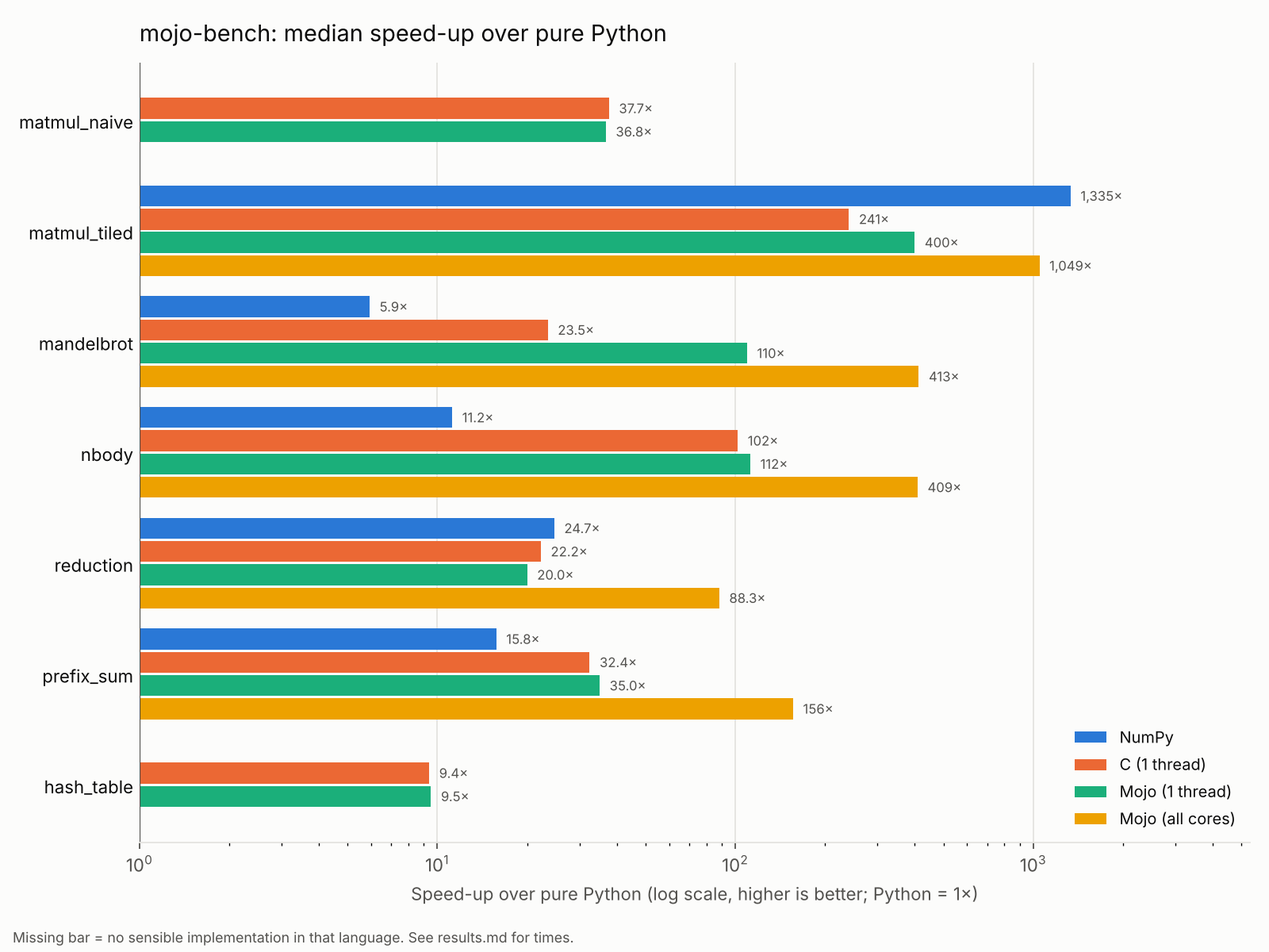
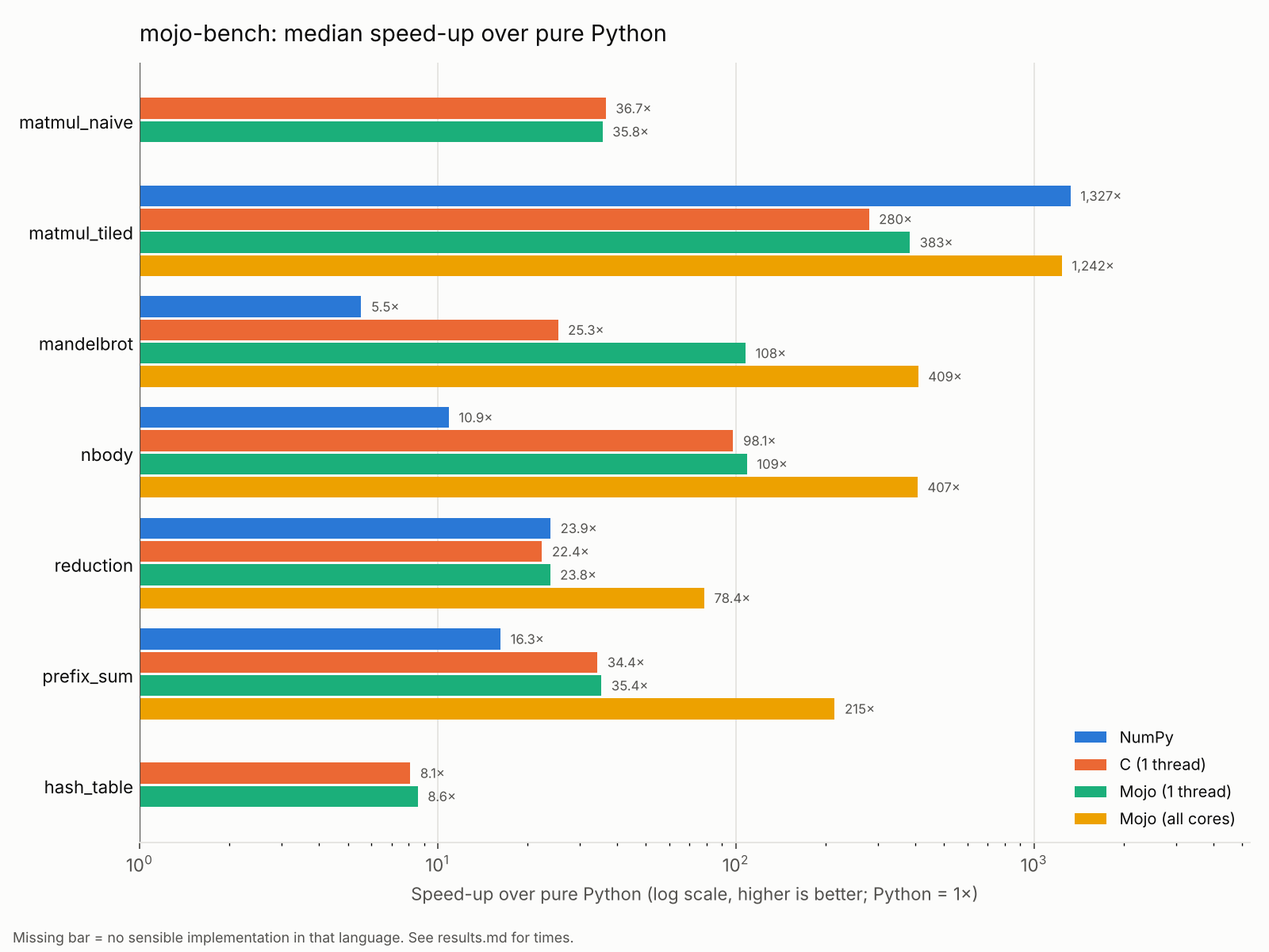
Compile C in GCC's default dialect so FMA contraction is allowed
-std=c11 silently disabled floating-point contraction, leaving the C
binary with no FMA instructions while Mojo uses them. The brief asks for
plain gcc -O3 -march=native, so drop -std=c11. Re-run the benchmark and
update the README: the tiled C matmul gap shrinks from 1.66x to 1.37x,
and the analysis now says which compiler details matter and by how much.
Mandelbrot gains a 1e-6 relative tolerance because FMA rounding moves a
few boundary pixels at some sizes.

diff --git a/bench/scaling.py b/bench/scaling.py
@@ -1,0 +1,130 @@
+#!/usr/bin/env python3
+"""Thread-scaling study: C (OpenMP) vs Mojo (parallelize), 1..all cores.
+
+Each parallel kernel is run with 1, 2, ... N threads through its parallel
+code path. Speed-up is relative to the same implementation at 1 thread, so it
+measures how well the code scales, not which language is faster (absolute
+times are in the CSV and the table).
+
+Sizes are larger than in the main benchmark because pure Python is not
+involved: the two streaming kernels use arrays far bigger than the L3 cache so
+that they hit DRAM bandwidth.
+
+Writes <out>/scaling.csv, <out>/scaling.md and <out>/scaling.png.
+Usage: python3 bench/scaling.py [--out results] [--max-threads N]
+"""
+
+import argparse
+import csv
+import statistics
+from pathlib import Path
+
+import matplotlib
+
+matplotlib.use("Agg")
+import matplotlib.pyplot as plt  # noqa: E402
+
+from run import NCPU, ROOT, run_impl  # noqa: E402
+
+SIZES = {
+    "matmul_tiled": (1024, "1,024 × 1,024 float64"),
+    "mandelbrot": (2048, "2,048 × 2,048 pixels"),
+    "nbody": (4096, "4,096 bodies, 5 steps"),
+    "reduction": (100_000_000, "100 M int64 (800 MB)"),
+    "prefix_sum": (100_000_000, "100 M int64 (800 MB in + 800 MB out)"),
+}
+IMPLS = [("c_omp", "C OpenMP", "#6250d6", "o"), ("mojo_par", "Mojo parallelize", "#eda100", "s")]
+SURFACE, INK, INK2, GRID = "#fcfcfb", "#0b0b0b", "#52514e", "#e4e3df"
+BUDGET_S, MIN_REPEATS, MAX_REPEATS = 1.0, 5, 50
+
+
+def measure(impl, kernel, n, threads):
+    pilot = run_impl(impl, kernel, n, 0, 1, threads=threads)
+    repeats = min(max(MIN_REPEATS, int(BUDGET_S / max(pilot[1][0], 1e-6))), MAX_REPEATS)
+    checksum, times = run_impl(impl, kernel, n, 1, repeats, threads=threads)
+    return checksum, statistics.median(times), min(times), repeats
+
+
+def plot(rows, out, max_threads):
+    kernels = list(SIZES)
+    fig, axes = plt.subplots(1, len(kernels), figsize=(14, 3.8), dpi=160, sharey=True)
+    fig.patch.set_facecolor(SURFACE)
+    threads = list(range(1, max_threads + 1))
+    for ax, kernel in zip(axes, kernels):
+        ax.set_facecolor(SURFACE)
+        ax.plot(threads, threads, color=INK2, lw=1, ls="--", label="ideal")
+        for impl, name, colour, marker in IMPLS:
+            pts = sorted((r["threads"], r["speedup"]) for r in rows if r["kernel"] == kernel and r["impl"] == impl)
+            ax.plot([p[0] for p in pts], [p[1] for p in pts], color=colour, lw=2, marker=marker, ms=8,
+                    markeredgecolor=SURFACE, markeredgewidth=1.5, label=name)
+            ax.annotate(f"{pts[-1][1]:.1f}×", (pts[-1][0], pts[-1][1]), xytext=(6, -3 if impl == "c_omp" else 6),
+                        textcoords="offset points", fontsize=8, color=INK)
+        ax.set_title(kernel, fontsize=10, color=INK, loc="left")
+        ax.set_xticks(threads)
+        ax.set_xlim(0.7, max_threads + 0.9)
+        ax.set_ylim(0, max_threads + 0.5)
+        ax.grid(color=GRID, lw=0.8)
+        ax.set_axisbelow(True)
+        ax.tick_params(colors=INK2, labelsize=8)
+        for side in ("top", "right"):
+            ax.spines[side].set_visible(False)
+        for side in ("left", "bottom"):
+            ax.spines[side].set_color(GRID)
+        ax.set_xlabel("threads", fontsize=9, color=INK2)
+    axes[0].set_ylabel("speed-up over 1 thread", fontsize=9, color=INK2)
+    axes[0].legend(loc="upper left", frameon=False, fontsize=8, labelcolor=INK)
+    fig.suptitle("Thread scaling: speed-up over the same implementation on 1 thread", x=0.01, ha="left",
+                 fontsize=12, color=INK)
+    fig.tight_layout()
+    fig.savefig(out / "scaling.png", facecolor=SURFACE)
+
+
+def main():
+    ap = argparse.ArgumentParser()
+    ap.add_argument("--out", default=str(ROOT / "results"))
+    ap.add_argument("--max-threads", type=int, default=NCPU)
+    args = ap.parse_args()
+    out = Path(args.out)
+    out.mkdir(parents=True, exist_ok=True)
+
+    rows = []
+    for kernel, (n, _) in SIZES.items():
+        reference = None
+        for impl, *_ in IMPLS:
+            base = None
+            for t in range(1, args.max_threads + 1):
+                checksum, med, best, reps = measure(impl, kernel, n, t)
+                reference = reference or checksum
+                if abs(float(checksum) - float(reference)) > 1e-9 * abs(float(reference)):
+                    raise SystemExit(f"checksum mismatch {kernel}/{impl}/{t}: {checksum} vs {reference}")
+                base = base or med
+                rows.append({"kernel": kernel, "impl": impl, "n": n, "threads": t, "median_s": med,
+                             "min_s": best, "repeats": reps, "speedup": base / med,
+                             "efficiency": base / med / t, "checksum": checksum})
+                print(f"{kernel:13s} {impl:9s} t={t}  {med * 1e3:9.2f} ms  speed-up {base / med:4.2f}")
+
+    with open(out / "scaling.csv", "w", newline="") as f:
+        w = csv.DictWriter(f, fieldnames=list(rows[0]))
+        w.writeheader()
+        w.writerows(rows)
+
+    by = {(r["kernel"], r["impl"], r["threads"]): r for r in rows}
+    md = ["# Thread scaling", "",
+          "Median time (speed-up over the same implementation on 1 thread). "
+          "All checksums agree across thread counts and languages.", ""]
+    head = "| Kernel | Size | Implementation | " + " | ".join(f"{t} thr" for t in range(1, args.max_threads + 1)) + " |"
+    md += [head, "|---|---|---|" + "---:|" * args.max_threads]
+    for kernel, (n, desc) in SIZES.items():
+        for impl, name, *_ in IMPLS:
+            cells = []
+            for t in range(1, args.max_threads + 1):
+                r = by[(kernel, impl, t)]
+                cells.append(f"{r['median_s'] * 1e3:.1f} ms ({r['speedup']:.2f}×)")
+            md.append(f"| {kernel} | {desc} | {name} | " + " | ".join(cells) + " |")
+    (out / "scaling.md").write_text("\n".join(md) + "\n")
+    plot(rows, out, args.max_threads)
+    print(f"wrote {out}/scaling.csv, scaling.md, scaling.png")
+
+
+if __name__ == "__main__":
+    main()

diff --git a/bench/run.py b/bench/run.py
@@ -82,10 +82,13 @@ SIZE_NOTES = {
     "hash_table": "n inserts + n lookups (50% hits)",
 }
 
-# Relative tolerance per kernel. Integer-valued checksums must match exactly;
-# n-body sums floating-point forces in different orders (SIMD lanes), so a
-# tiny relative difference is expected.
-TOLERANCE = {"nbody": 1e-9}
+# Relative tolerance per kernel. Integer-valued checksums must match exactly,
+# with one exception: compiled code may fuse x*x - y*y + c into an FMA, which
+# rounds differently from Python and can change the escape iteration of a
+# handful of boundary pixels in Mandelbrot (12 of 225.6 M iterations at
+# 2048 x 2048; none at the benchmark size). n-body sums floating-point forces
+# in different orders (SIMD lanes), so a tiny relative difference is expected.
+TOLERANCE = {"mandelbrot": 1e-6, "nbody": 1e-9}
 
 # Kernels with a parallel code path. The naive matmul is the deliberately
 # simple scalar baseline, and the hash table is a serial dependency chain.
@@ -194,7 +197,7 @@ def measure_startup(repeats=5):
     rows.append(("Mojo binary start (no-op kernel)", wall([str(BUILD / "kernels_mojo"), "noop"], repeats)))
     with tempfile.TemporaryDirectory() as tmp:
         rows.append(("gcc -O3 compile of kernels.c", wall(
-            ["gcc", "-O3", "-march=native", "-std=c11", "-o", f"{tmp}/k", str(ROOT / "kernels/c/kernels.c"), "-lm"], 3)))
+            ["gcc", "-O3", "-march=native", "-o", f"{tmp}/k", str(ROOT / "kernels/c/kernels.c"), "-lm"], 3)))
         rows.append(("mojo build of kernels.mojo", wall(
             ["mojo", "build", "-O3", str(ROOT / "kernels/mojo/kernels.mojo"), "-o", f"{tmp}/k"], 3)))
     rows.append(("mojo run kernels.mojo noop (JIT compile + run)", wall(

diff --git a/kernels/c/kernels.c b/kernels/c/kernels.c
@@ -6,7 +6,8 @@
  * prints
  *   RESULT <kernel> <checksum> <t1,t2,...>
  *
- * Plain, idiomatic C99 compiled with gcc -O3 -march=native. No intrinsics:
+ * Plain, idiomatic C compiled with gcc -O3 -march=native (GCC's default
+ * gnu17 dialect, which allows FMA contraction). No intrinsics:
  * any SIMD here comes from the compiler's auto-vectoriser, which is what a
  * typical C programmer actually gets.
  */

diff --git a/README.md b/README.md
@@ -22,7 +22,7 @@ The implementations:
 
 - **Python**: lists, loops and `dict`, written the way a competent Python programmer would without extension modules. This is the baseline (1×) and the source of truth for correctness.
 - **NumPy**: the idiomatic "make Python fast" route, only where a natural array formulation exists. A naive triple loop and an open-addressing hash table have no sensible NumPy form, so they are shown as n/a. For `matmul_tiled`, NumPy's `a @ b` calls OpenBLAS: an expertly tuned GEMM, so treat it as the ceiling rather than a like-for-like peer.
-- **C**: plain C11 compiled with `gcc -O3 -march=native`, no intrinsics. Any SIMD comes from GCC's auto-vectoriser, which is what most C code actually gets.
+- **C**: plain C compiled with `gcc -O3 -march=native` (GCC's default dialect), no intrinsics. Any SIMD comes from GCC's auto-vectoriser, which is what most C code actually gets.
 - **Mojo (1 thread)**: idiomatic Mojo 1.2 using explicit SIMD types and `vectorize` where it helps.
 - **Mojo (all cores)**: the same code split into one chunk per core with `parallelize`, for the five kernels that parallelise naturally.
 
@@ -30,85 +30,87 @@ The fair, like-for-like comparison is **C (1 thread) against Mojo (1 thread)**. 
 
 ## Results
 
-Machine: Intel Xeon (Sapphire Rapids, AVX-512) cloud VM with 4 vCPUs, Ubuntu 24.04, gcc 13.3.0, Mojo 1.2.0, Python 3.13.18, NumPy 2.5.3. Full details are in [`results/results.md`](results/results.md) and [`results/machine.json`](results/machine.json).
+Machine: Intel Xeon (Sapphire Rapids, AVX-512) cloud VM with 4 vCPUs, Ubuntu 24.04, gcc 13.3.0 (`-O3 -march=native`), Mojo 1.2.0, Python 3.13.18, NumPy 2.5.3. Full details are in [`results/results.md`](results/results.md) and [`results/machine.json`](results/machine.json).
 
 ### Median time
 
 | Kernel | Python | NumPy | C (1 thread) | Mojo (1 thread) | Mojo (4 threads) |
 |---|---:|---:|---:|---:|---:|
-| matmul_naive | 2.60 s | n/a | 69.1 ms | 70.8 ms | n/a |
-| matmul_tiled | 2.51 s | 1.9 ms | 10.4 ms | 6.3 ms | 2.4 ms |
-| mandelbrot | 2.08 s | 350.7 ms | 88.4 ms | 19.0 ms | 5.0 ms |
-| nbody | 1.06 s | 94.4 ms | 10.4 ms | 9.4 ms | 2.6 ms |
-| reduction | 75.2 ms | 3.0 ms | 3.4 ms | 3.8 ms | 851 µs |
-| prefix_sum | 593.3 ms | 37.6 ms | 18.3 ms | 16.9 ms | 3.8 ms |
-| hash_table | 1.04 s | n/a | 111.3 ms | 109.7 ms | n/a |
+| matmul_naive | 2.61 s | n/a | 71.2 ms | 73.0 ms | n/a |
+| matmul_tiled | 2.48 s | 1.9 ms | 8.9 ms | 6.5 ms | 2.0 ms |
+| mandelbrot | 2.03 s | 365.2 ms | 79.9 ms | 18.8 ms | 4.9 ms |
+| nbody | 1.03 s | 94.7 ms | 10.5 ms | 9.5 ms | 2.5 ms |
+| reduction | 72.8 ms | 3.0 ms | 3.3 ms | 3.1 ms | 929 µs |
+| prefix_sum | 580.6 ms | 35.7 ms | 16.9 ms | 16.4 ms | 2.7 ms |
+| hash_table | 946.4 ms | n/a | 116.9 ms | 110.3 ms | n/a |
 
 ### Speed-up over pure Python (higher is better)
 
 | Kernel | NumPy | C (1 thread) | Mojo (1 thread) | Mojo (4 threads) |
 |---|---:|---:|---:|---:|
-| matmul_naive | n/a | 37.7× | 36.8× | n/a |
-| matmul_tiled | 1,335× | 241× | 400× | 1,049× |
-| mandelbrot | 5.9× | 23.5× | 110× | 413× |
-| nbody | 11.2× | 102× | 112× | 409× |
-| reduction | 24.7× | 22.2× | 20.0× | 88.3× |
-| prefix_sum | 15.8× | 32.4× | 35.0× | 156× |
-| hash_table | n/a | 9.4× | 9.5× | n/a |
+| matmul_naive | n/a | 36.7× | 35.8× | n/a |
+| matmul_tiled | 1,327× | 280× | 383× | 1,242× |
+| mandelbrot | 5.5× | 25.3× | 108× | 409× |
+| nbody | 10.9× | 98.1× | 109× | 407× |
+| reduction | 23.9× | 22.4× | 23.8× | 78.4× |
+| prefix_sum | 16.3× | 34.4× | 35.4× | 215× |
+| hash_table | n/a | 8.1× | 8.6× | n/a |
 
 ### Start-up and compile costs
 
 | What | Median wall time |
 |---|---:|
-| Python interpreter start (no-op) | 17.2 ms |
-| Python + `import numpy` (no-op) | 98.2 ms |
-| C binary start (no-op) | 1.3 ms |
-| Mojo binary start (no-op) | 8.8 ms |
-| `gcc -O3` compile of `kernels.c` | 253 ms |
-| `mojo build` of `kernels.mojo` | 1.89 s |
-| `mojo run kernels.mojo` (JIT compile + run, no-op) | 1.89 s |
+| Python interpreter start (no-op) | 16.8 ms |
+| Python + `import numpy` (no-op) | 94.6 ms |
+| C binary start (no-op) | 1.4 ms |
+| Mojo binary start (no-op) | 9.8 ms |
+| `gcc -O3` compile of `kernels.c` | 250.7 ms |
+| `mojo build` of `kernels.mojo` | 1.87 s |
+| `mojo run kernels.mojo` (JIT compile + run, no-op) | 1.98 s |
 
 ## Analysis: where Mojo wins, where it doesn't, and why
 
-**Same algorithm, same machine code: no difference.** On `matmul_naive`, C and Mojo are within 3 % of each other (69.1 vs 70.8 ms, about 1.6 GFLOP/s each). Both are scalar loops walking down a column of B with a stride of 384 × 8 bytes, and neither compiler may reorder the floating-point sum. Mojo is not magic: written the same way as C, it compiles to much the same code (both go through an LLVM- or GCC-style optimiser) and runs at the same speed. The ~37× over Python is simply the cost of the interpreter.
+**Same algorithm, same machine code: no difference.** On `matmul_naive`, C and Mojo are within 3 % of each other (71.2 vs 73.0 ms, about 1.6 GFLOP/s each). Both are scalar loops walking down a column of B with a stride of 384 × 8 bytes, and neither compiler may reorder the floating-point sum. Mojo is not magic: written the same way as C, it compiles to much the same code and runs at the same speed. The ~36× over Python is simply the cost of the interpreter.
 
-**Explicit SIMD is where single-threaded Mojo pulls ahead.** The clearest case is `mandelbrot`: Mojo is **4.7× faster than C** on one core (19.0 vs 88.4 ms). The escape-time loop has a data-dependent exit, which GCC's auto-vectoriser will not touch, so the C code processes one pixel at a time. The Mojo version uses `SIMD[DType.float64, 8]` vectors, so 8 pixels per AVX-512 register, with a mask that freezes escaped lanes and a loop that ends when all 8 have escaped. This is the case Mojo is designed for: SIMD as a normal, portable type in the language rather than compiler-specific intrinsics. A C programmer *could* write the same thing with AVX-512 intrinsics. The point is that idiomatic C doesn't, and idiomatic Mojo does.
+**Explicit SIMD is where single-threaded Mojo pulls ahead.** The clearest case is `mandelbrot`: Mojo is **4.3× faster than C** on one core (18.8 vs 79.9 ms). The escape-time loop has a data-dependent exit, which GCC's auto-vectoriser will not touch, so the C code processes one pixel at a time. The Mojo version uses `SIMD[DType.float64, 8]` vectors, so 8 pixels per AVX-512 register, with a mask that freezes escaped lanes and a loop that ends when all 8 have escaped. This is the case Mojo is designed for: SIMD as a normal, portable type in the language rather than compiler-specific intrinsics. A C programmer *could* write the same thing with AVX-512 intrinsics. The point is that idiomatic C doesn't, and idiomatic Mojo does.
 
-**Sometimes the difference is a compiler default, not the language.** On `matmul_tiled`, Mojo is 1.66× faster than C (6.3 vs 10.4 ms; 18.0 vs 10.8 GFLOP/s) with the same blocked i-k-j algorithm. The cause is measurable: GCC detects this CPU as Sapphire Rapids but defaults to `-mprefer-vector-width=256`, so it uses half-width AVX-512 vectors. Rebuilding the C with `-mprefer-vector-width=512` brought it to **6.6 ms**, level with Mojo. The same flag made the C n-body *slower* (10.3 → 14.7 ms), which is why GCC is cautious by default. Mojo's `simd_width_of[DType.float64]()` picks the full 8-lane width. To reproduce:
+**Sometimes the difference is a compiler default, not the language.** On `matmul_tiled`, Mojo is 1.37× faster than C (6.5 vs 8.9 ms; 17.5 vs 12.8 GFLOP/s) with the same blocked i-k-j algorithm. The cause is measurable: GCC detects this CPU as Sapphire Rapids but defaults to `-mprefer-vector-width=256`, so it uses half-width AVX-512 vectors. Rebuilding the C with `-mprefer-vector-width=512` brought it to **6.6 ms**, level with Mojo. The same flag made the C n-body *slower* (10.6 → 13.3 ms), which is why GCC is cautious by default. Mojo's `simd_width_of[DType.float64]()` picks the full 8-lane width. To reproduce:
 
 ```bash
-gcc -O3 -march=native -mprefer-vector-width=512 -std=c11 -o build/kernels_c512 kernels/c/kernels.c -lm
+gcc -O3 -march=native -mprefer-vector-width=512 -o build/kernels_c512 kernels/c/kernels.c -lm
 ```
 
 ```bash
 ./build/kernels_c512 matmul_tiled 384 2 30
 ```
 
-**When the compiler already vectorises, it's a tie.** On `nbody`, C and Mojo differ by about 10 % (10.4 vs 9.4 ms; roughly 500–550 M pair interactions per second). GCC auto-vectorises the inner loop of the C code, including `sqrt` and division, so writing it with explicit SIMD in Mojo gains little. The same applies to `reduction` (3.4 vs 3.8 ms) and `prefix_sum` (18.3 vs 16.9 ms): the differences are within the run-to-run noise described below.
+A second compiler detail mattered here too. An earlier version of this benchmark compiled the C with `-std=c11`, which, as a side effect, stops GCC fusing `a*b + c` into a single FMA instruction (in its strict ISO C modes GCC treats floating-point contraction as off). The C binary then contained no FMA instructions at all, against 55 in the Mojo binary, and the tiled C matmul was 10.4 ms instead of 8.9 ms. The C here now uses GCC's default dialect, as a plain `gcc -O3 -march=native` would. Each of these flags moved a result by 15–25 %, so benchmark comparisons must state them.
 
-**Memory-bound kernels: everyone hits the same wall.** A single core sums the 80 MB `reduction` array at about 21–26 GB/s in C, Mojo *and* NumPy. At that point the limit is how fast one core can pull data in, not the language. NumPy is level with compiled code here because `a.sum()` is a single call into a C loop with no per-element Python overhead. The 80 MB array does fit in the 260 MB of L3 that the VM reports, so after warm-up this is probably cache bandwidth rather than DRAM bandwidth. The roofline analysis returns to this.
+**When the compiler already vectorises, it's a tie.** On `nbody`, C and Mojo differ by about 10 % (10.5 vs 9.5 ms; roughly 500–550 M pair interactions per second). GCC auto-vectorises the inner loop of the C code, including `sqrt` and division, so writing it with explicit SIMD in Mojo gains little. The same applies to `reduction` (3.3 vs 3.1 ms) and `prefix_sum` (16.9 vs 16.4 ms): the differences are within run-to-run noise.
 
-**Pointer chasing: Python's dict is already C.** `hash_table` shows the smallest gap: C and Mojo do an insert or lookup in about 28 ns, Python in about 260 ns, so roughly 9.5×. Python's `dict` is a highly optimised C hash table, so what you pay for in Python is interpreter dispatch and boxed integers, not the hashing. The compiled versions are limited by cache misses on a 64 MB table, which no language feature removes.
+**Memory-bound kernels: everyone hits the same wall.** A single core sums the 80 MB `reduction` array at about 25–26 GB/s in C, Mojo *and* NumPy. At that point the limit is how fast one core can pull data in, not the language. NumPy is level with compiled code here because `a.sum()` is a single call into a C loop with no per-element Python overhead. The 80 MB array does fit in the 260 MB of L3 that the VM reports, so after warm-up this is probably cache bandwidth rather than DRAM bandwidth. The thread-scaling study uses 800 MB arrays to measure DRAM.
 
-**Parallelism is where the big numbers come from, and it isn't free.** With `parallelize` across 4 cores, Mojo reaches 3.6× (n-body) to 3.8× (Mandelbrot) over its own single-threaded code. Tiled matmul gets only 2.6×, because each thread's share at n = 384 is small and the run is only 2.4 ms. The reduction and scan show 4.4×, slightly above the ideal 4×, which is within the noise we measured for short parallel runs (see caveats); don't read it as super-linear speed-up. The best Mojo matmul, at 47 GFLOP/s on 4 cores, is still slower than single-threaded OpenBLAS at 60 GFLOP/s. A decade of hand-tuned micro-kernels (register blocking, packing, prefetching) still beats a straightforward tiled loop.
+**Pointer chasing: Python's dict is already C.** `hash_table` shows the smallest gap: C and Mojo do an insert or lookup in about 28–29 ns, Python in about 240 ns, so roughly 8–9×. Python's `dict` is a highly optimised C hash table, so what you pay for in Python is interpreter dispatch and boxed integers, not the hashing. The compiled versions are limited by cache misses on a 64 MB table, which no language feature removes.
 
-**Start-up and compile cost are real.** A compiled Mojo binary takes about 8.8 ms to start, against 1.3 ms for C: it initialises its runtime and thread pool. Compilation is the bigger cost: `mojo build` takes about 1.9 s for this file against 0.25 s for `gcc -O3`. `mojo run` pays that compile on *every* invocation, so for a script that does under a second of work, Python (17 ms to start) or a pre-built binary is the better choice. All kernel timings above exclude start-up and compilation.
+**Parallelism is where the big numbers come from, and it isn't free.** With `parallelize` across 4 cores, Mojo reaches 3.7× (n-body) and 3.8× (Mandelbrot) over its own single-threaded code. Tiled matmul (3.2×) and reduction (3.3×) scale less well: the runs take only 1–2 ms, so fixed costs such as waking threads become visible, and the reduction is limited by memory bandwidth. The scan's 6.1× figure is not trustworthy: back-to-back 4-thread runs of the same scan gave medians of 3.0 ms and 6.8 ms, so at this size it is dominated by something other than the code (the scaling study measures it properly at a larger size). The best Mojo matmul, at 57 GFLOP/s on 4 cores, roughly equals single-threaded OpenBLAS at 61 GFLOP/s. A decade of hand-tuned micro-kernels (register blocking, packing, prefetching) still gets four times as much out of each core as a straightforward tiled loop.
+
+**Start-up and compile cost are real.** A compiled Mojo binary takes about 10 ms to start, against 1.4 ms for C: it initialises its runtime and thread pool. Compilation is the bigger cost: `mojo build` takes about 1.9 s for this file against 0.25 s for `gcc -O3`. `mojo run` pays that compile on *every* invocation, so for a script that does under a second of work, Python (17 ms to start) or a pre-built binary is the better choice. All kernel timings above exclude start-up and compilation.
 
 ### Summary
 
 - Mojo is not a faster C. Written like C, it runs like C.
-- Its advantage is that SIMD and parallelism are first-class and portable. `mandelbrot` (4.7× over C on one core) shows that clearly, and `parallelize` turns 4 cores into a 3.6–3.8× speed-up for compute-heavy kernels with a few lines of code.
-- Compared with Python, the speed-ups are dramatic (10× to 1,000×), but most of that gain is also available from C. For array-shaped problems, NumPy gets a good part of the way there with no new language.
+- Its advantage is that SIMD and parallelism are first-class and portable. `mandelbrot` (4.3× over C on one core) shows that clearly, and `parallelize` turns 4 cores into a 3.7–3.8× speed-up for compute-heavy kernels with a few lines of code.
+- Compared with Python, the speed-ups are dramatic (8× to 1,000×+), but most of that gain is also available from C. For array-shaped problems, NumPy gets a good part of the way there with no new language.
 
 ## Benchmarking caveats
 
 - **One machine.** This is a 4-vCPU cloud VM (`hypervisor` flag set), shared with other tenants. Results will differ on your hardware, especially for memory-bound kernels.
-- **Noise.** Repeats are adaptive: at least 5, otherwise as many as fit in about 1 s, capped at 200. Across two complete runs, medians agreed within about 3 % for most rows and within 7 % for every single-threaded row except NumPy n-body (13 %). Three of the very short 4-thread runs (tiled matmul, reduction and scan, all under 4 ms) varied by 10–20 % between runs, while their minimum times stayed within 8 %. Treat differences under about 10 % as a tie. Single-run figures quoted in the analysis (such as the `-mprefer-vector-width=512` experiment) were measured separately with 30 repeats.
+- **Noise.** Repeats are adaptive: at least 5, otherwise as many as fit in about 1 s, capped at 200. Across two complete runs, medians agreed within about 3 % for most rows and within 7 % for every single-threaded row except NumPy n-body (13 %). Three of the very short 4-thread runs (tiled matmul, reduction and scan, all under 4 ms) varied by 10–20 % between runs, while their minimum times stayed within 8 %. The 4-thread scan is worse still (see the analysis). The single-threaded C tiled matmul also moved by up to ±10 % with code changes elsewhere in the file that did not touch its loop, which looks like code-layout and alignment sensitivity. Treat differences under about 10 % as a tie. Single-run figures quoted in the analysis (such as the `-mprefer-vector-width=512` experiment) were measured separately with 30 repeats.
 - **Medians, warm caches.** Each implementation has one warm-up run, and times are medians of the timed repeats. Input generation is excluded, as is process start-up (measured separately above). Min, mean and standard deviation are in the CSV.
 - **Sizes are set by pure Python.** Problem sizes were chosen so that pure Python takes 1–3 s per run. That makes several compiled runs short (milliseconds), which favours low-overhead code and limits parallel speed-up. Bigger problems would show the compiled languages scaling better.
 - **Idiomatic, not heroic.** No implementation uses intrinsics, hand-written assembly or libraries other than NumPy. A determined C programmer can match every Mojo result here. The question this repo asks is what you get from reasonable code in each language.
 - **Correctness first.** The runner exits with an error if any checksum disagrees with pure Python. Inputs come from integer formulas, so matmul, Mandelbrot, reduction, scan and hash-table checksums must match *exactly*. N-body sums floating-point forces in a different order in each implementation, so it allows a relative difference of 1e-9; the largest observed was about 3e-14.
-- **Floating-point model.** No `-ffast-math`. GCC may contract `a*b+c` into FMA with `-march=native`, and Mandelbrot iteration counts still matched Python exactly at this size.
+- **Floating-point model.** No `-ffast-math` anywhere. Both GCC (in its default dialect) and Mojo fuse `a*b + c` into FMA instructions, which round differently from Python. At the benchmark size every Mandelbrot iteration count still matches Python exactly. At 2,048 × 2,048, the FMA builds differ from Python by 12 iterations out of 225.6 M (a handful of boundary pixels), so Mandelbrot allows a relative difference of 1e-6.
 - **Toolchain versions matter.** Mojo is evolving quickly. In Mojo 1.x the standard library is imported as `std.*`, `UnsafePointer` gave way to `Pointer`, and `parallelize` moved to `max.algorithm` in the `max-core` package. The code here targets Mojo 1.2.0 and max-core 26.7.0 as pinned in `requirements.txt`.
 
 ## How to reproduce

diff --git a/results/results.md b/results/results.md
@@ -35,25 +35,25 @@ Warm-up runs: 1. Timed repeats are adaptive: at least 5, otherwise enough to fil
 
 | Kernel | Python | NumPy | C (1 thread) | Mojo (1 thread) | Mojo (4 threads) |
 |---|---:|---:|---:|---:|---:|
-| matmul_naive | 2.60 s | n/a | 69.1 ms | 70.8 ms | n/a |
-| matmul_tiled | 2.51 s | 1.9 ms | 10.4 ms | 6.3 ms | 2.4 ms |
-| mandelbrot | 2.08 s | 350.7 ms | 88.4 ms | 19.0 ms | 5.0 ms |
-| nbody | 1.06 s | 94.4 ms | 10.4 ms | 9.4 ms | 2.6 ms |
-| reduction | 75.2 ms | 3.0 ms | 3.4 ms | 3.8 ms | 851 µs |
-| prefix_sum | 593.3 ms | 37.6 ms | 18.3 ms | 16.9 ms | 3.8 ms |
-| hash_table | 1.04 s | n/a | 111.3 ms | 109.7 ms | n/a |
+| matmul_naive | 2.61 s | n/a | 71.2 ms | 73.0 ms | n/a |
+| matmul_tiled | 2.48 s | 1.9 ms | 8.9 ms | 6.5 ms | 2.0 ms |
+| mandelbrot | 2.03 s | 365.2 ms | 79.9 ms | 18.8 ms | 4.9 ms |
+| nbody | 1.03 s | 94.7 ms | 10.5 ms | 9.5 ms | 2.5 ms |
+| reduction | 72.8 ms | 3.0 ms | 3.3 ms | 3.1 ms | 929 µs |
+| prefix_sum | 580.6 ms | 35.7 ms | 16.9 ms | 16.4 ms | 2.7 ms |
+| hash_table | 946.4 ms | n/a | 116.9 ms | 110.3 ms | n/a |
 
 ## Speed-up over pure Python (higher is better)
 
 | Kernel | Python | NumPy | C (1 thread) | Mojo (1 thread) | Mojo (4 threads) |
 |---|---:|---:|---:|---:|---:|
-| matmul_naive | 1.0× | n/a | 37.7× | 36.8× | n/a |
-| matmul_tiled | 1.0× | 1,335× | 241× | 400× | 1,049× |
-| mandelbrot | 1.0× | 5.9× | 23.5× | 110× | 413× |
-| nbody | 1.0× | 11.2× | 102× | 112× | 409× |
-| reduction | 1.0× | 24.7× | 22.2× | 20.0× | 88.3× |
-| prefix_sum | 1.0× | 15.8× | 32.4× | 35.0× | 156× |
-| hash_table | 1.0× | n/a | 9.4× | 9.5× | n/a |
+| matmul_naive | 1.0× | n/a | 36.7× | 35.8× | n/a |
+| matmul_tiled | 1.0× | 1,327× | 280× | 383× | 1,242× |
+| mandelbrot | 1.0× | 5.5× | 25.3× | 108× | 409× |
+| nbody | 1.0× | 10.9× | 98.1× | 109× | 407× |
+| reduction | 1.0× | 23.9× | 22.4× | 23.8× | 78.4× |
+| prefix_sum | 1.0× | 16.3× | 34.4× | 35.4× | 215× |
+| hash_table | 1.0× | n/a | 8.1× | 8.6× | n/a |
 
 n/a = no sensible implementation in that language (see README).
 
@@ -61,10 +61,10 @@ n/a = no sensible implementation in that language (see README).
 
 | What | Median wall time |
 |---|---:|
-| Python interpreter start (no-op kernel) | 17.2 ms |
-| Python + import numpy (no-op kernel) | 98.2 ms |
-| C binary start (no-op kernel) | 1.3 ms |
-| Mojo binary start (no-op kernel) | 8.8 ms |
-| gcc -O3 compile of kernels.c | 253.0 ms |
-| mojo build of kernels.mojo | 1.89 s |
-| mojo run kernels.mojo noop (JIT compile + run) | 1.89 s |
+| Python interpreter start (no-op kernel) | 16.8 ms |
+| Python + import numpy (no-op kernel) | 94.6 ms |
+| C binary start (no-op kernel) | 1.4 ms |
+| Mojo binary start (no-op kernel) | 9.8 ms |
+| gcc -O3 compile of kernels.c | 250.7 ms |
+| mojo build of kernels.mojo | 1.87 s |
+| mojo run kernels.mojo noop (JIT compile + run) | 1.98 s |
